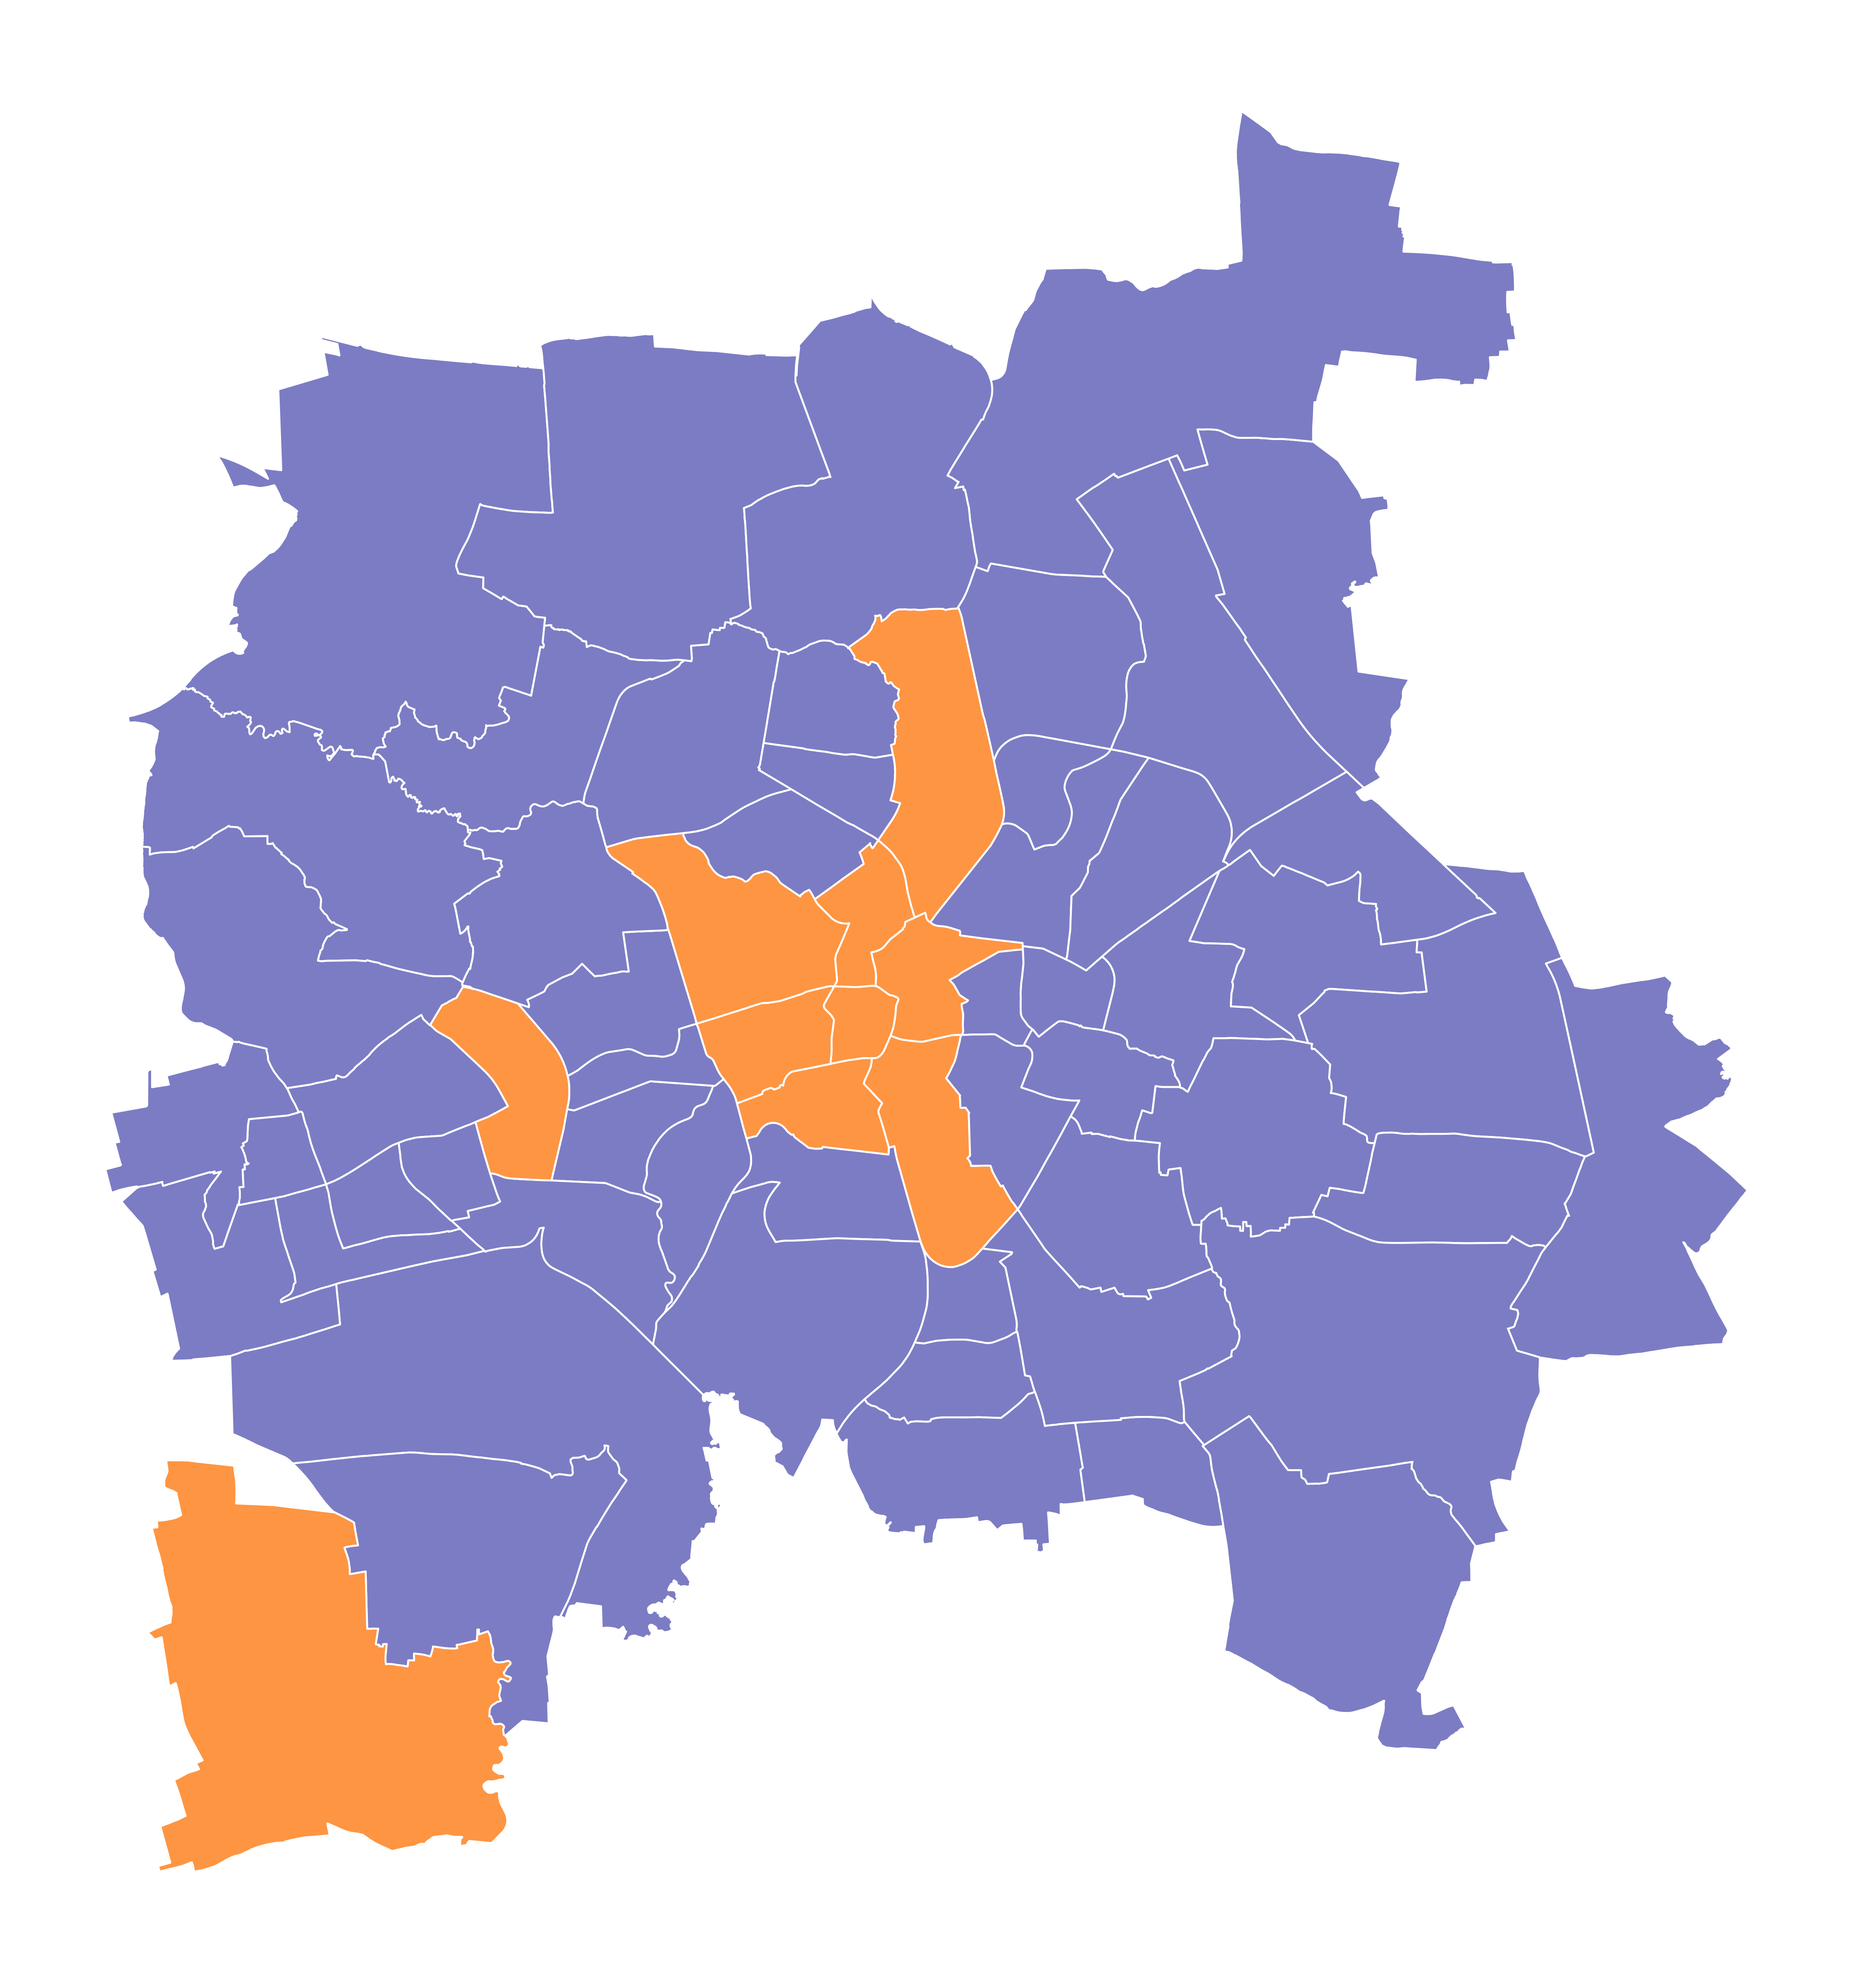
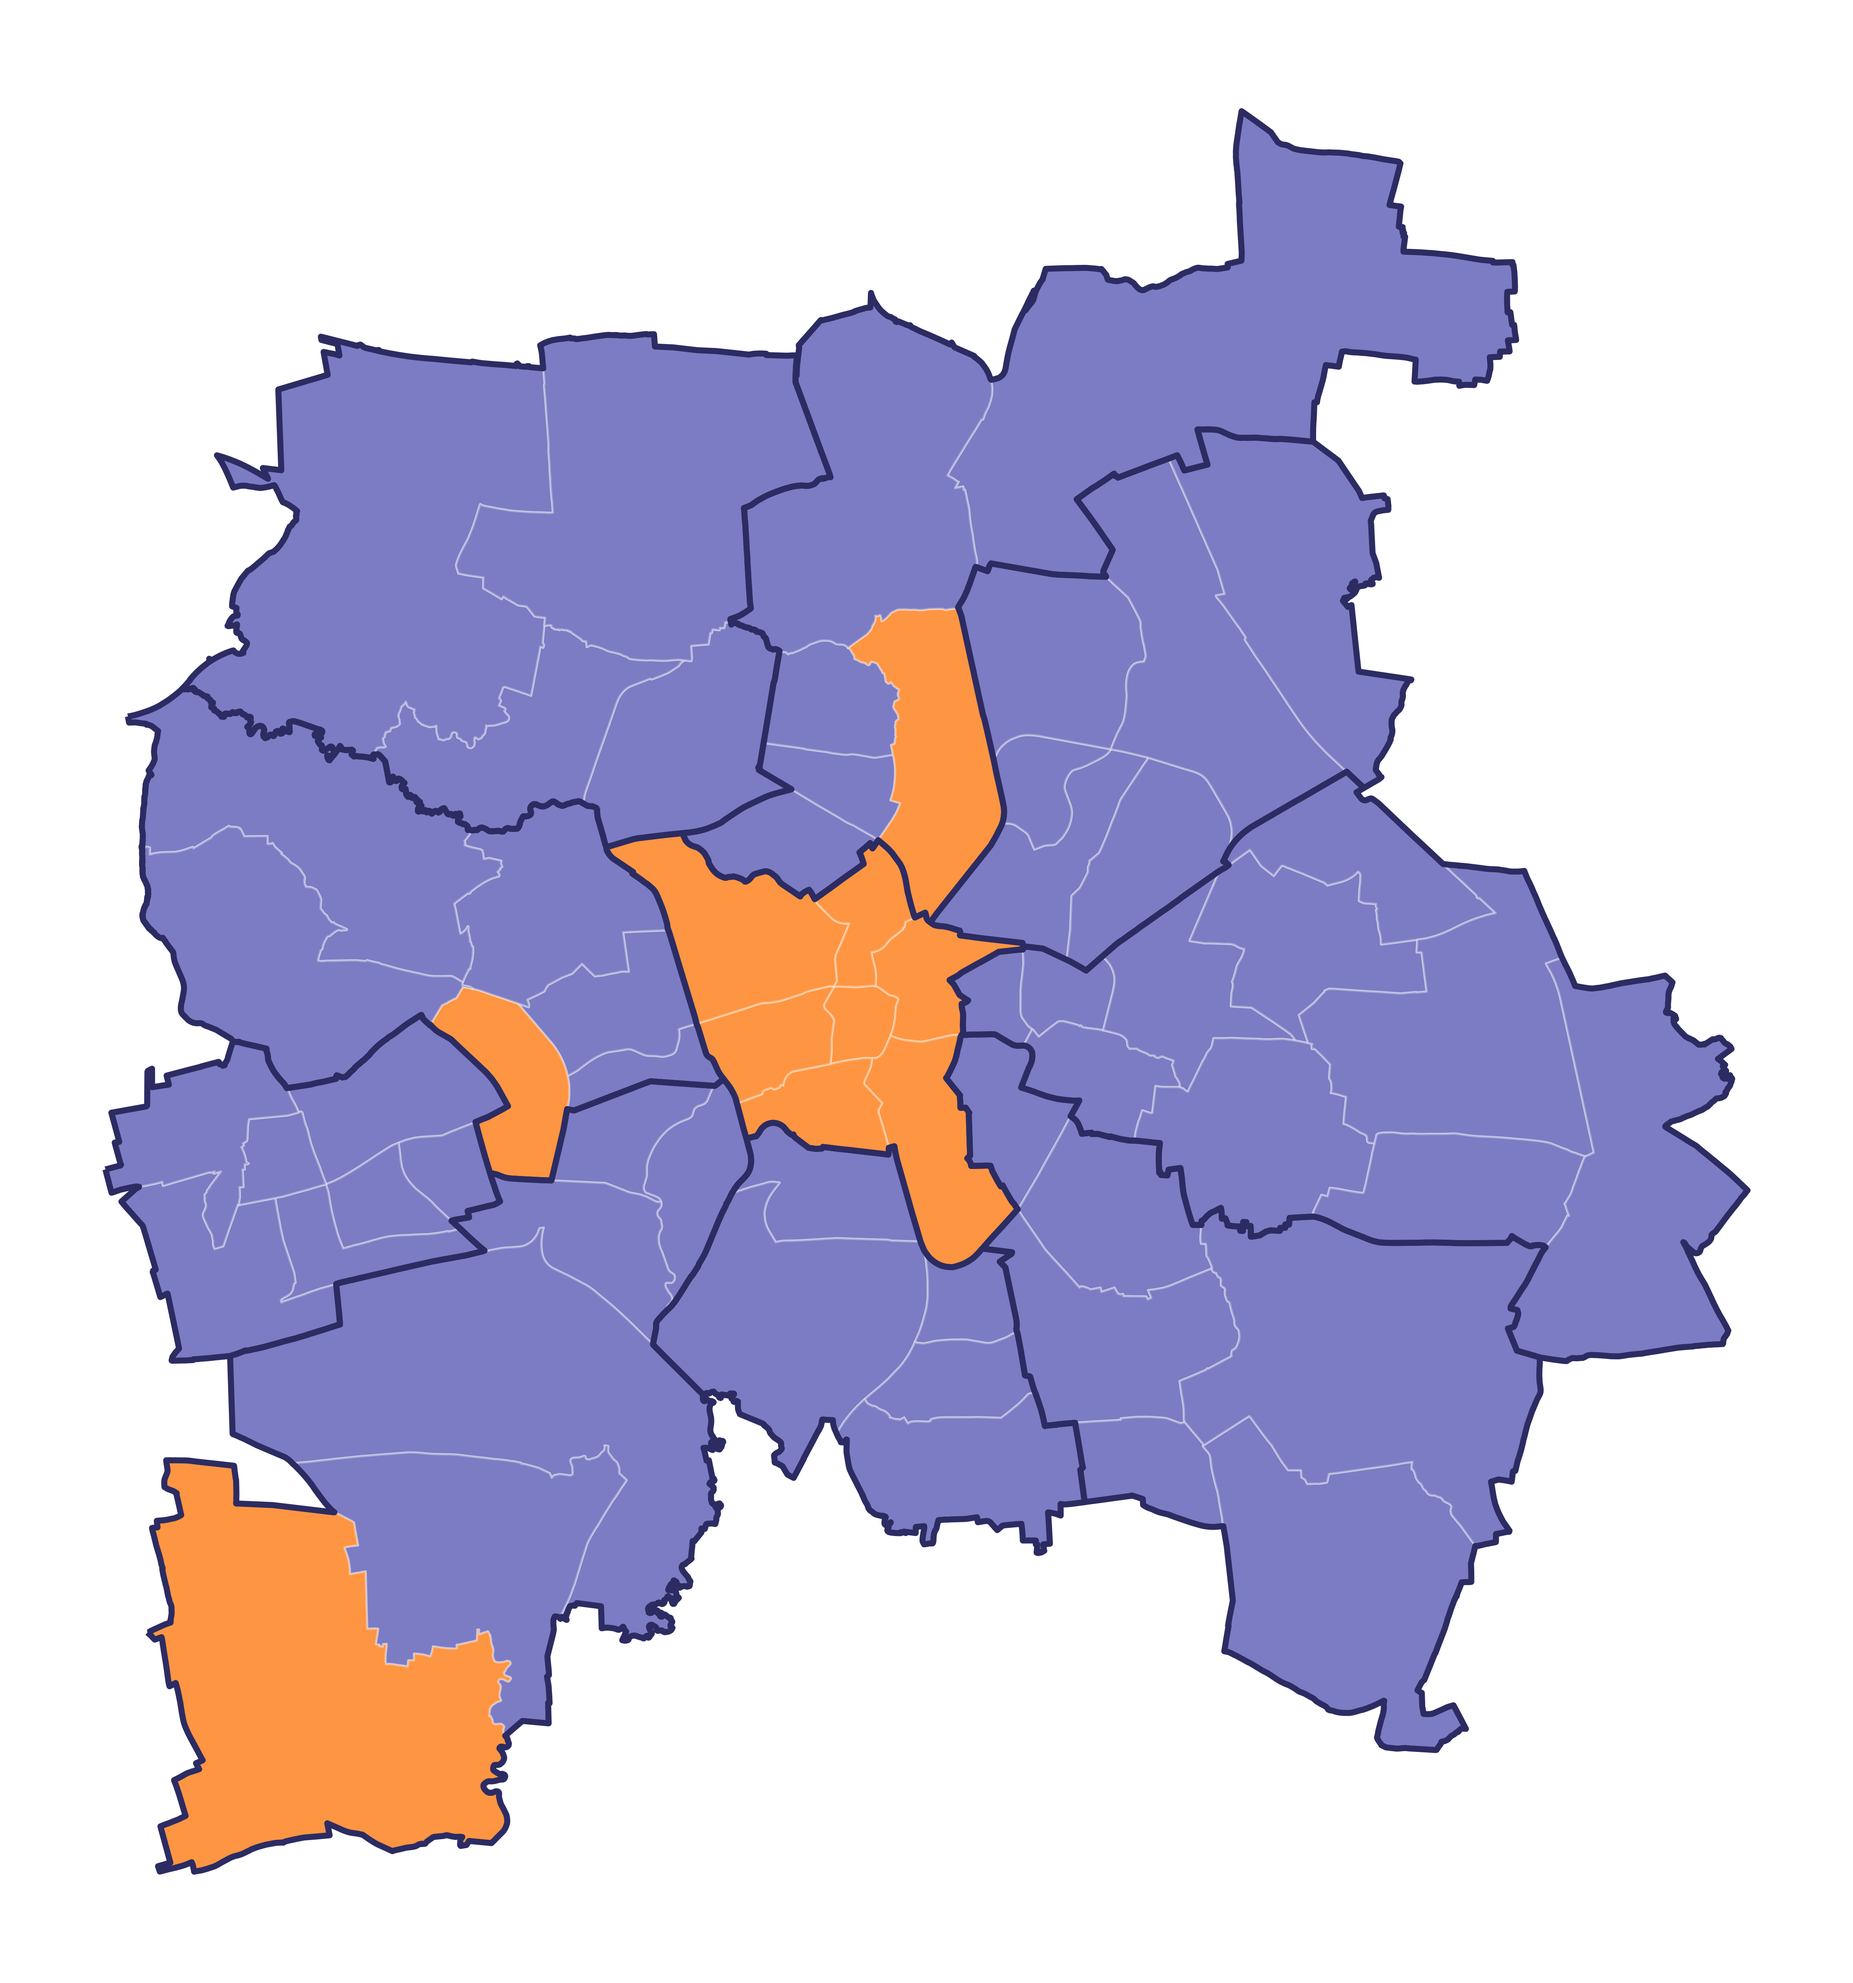
feat: pretty map

diff --git a/src/create_affordability_maps.py b/src/create_affordability_maps.py
@@ -144,6 +144,12 @@ def create_bafog_only_map() -> None:
 
     merged = districts.merge(bafog_data, on="district_id", how="left")
 
+    #merged["geometry"] = (
+    #    merged.geometry
+    #    .buffer(25)
+    #    .buffer(-25)
+    #)
+
     print("\n=== DEBUGGING DISTRICT IDS ===")
 
     geo_ids = set(districts["district_id"])
@@ -167,8 +173,8 @@ def create_bafog_only_map() -> None:
 
     merged.plot(
         color=merged["affordability_status"].map(COLORS).fillna("#DDDDDD"),
-        edgecolor="white",
-        linewidth=0.6,
+        edgecolor=(1, 1, 1, 0.35),
+        linewidth=0.7,
         ax=ax,
     )
 
@@ -179,7 +185,7 @@ def create_bafog_only_map() -> None:
     city_district_borders.boundary.plot(
         ax=ax,
         color="#2C2C63",
-        linewidth=2.2,
+        linewidth=1.86, 
         zorder=10,
     )
 
